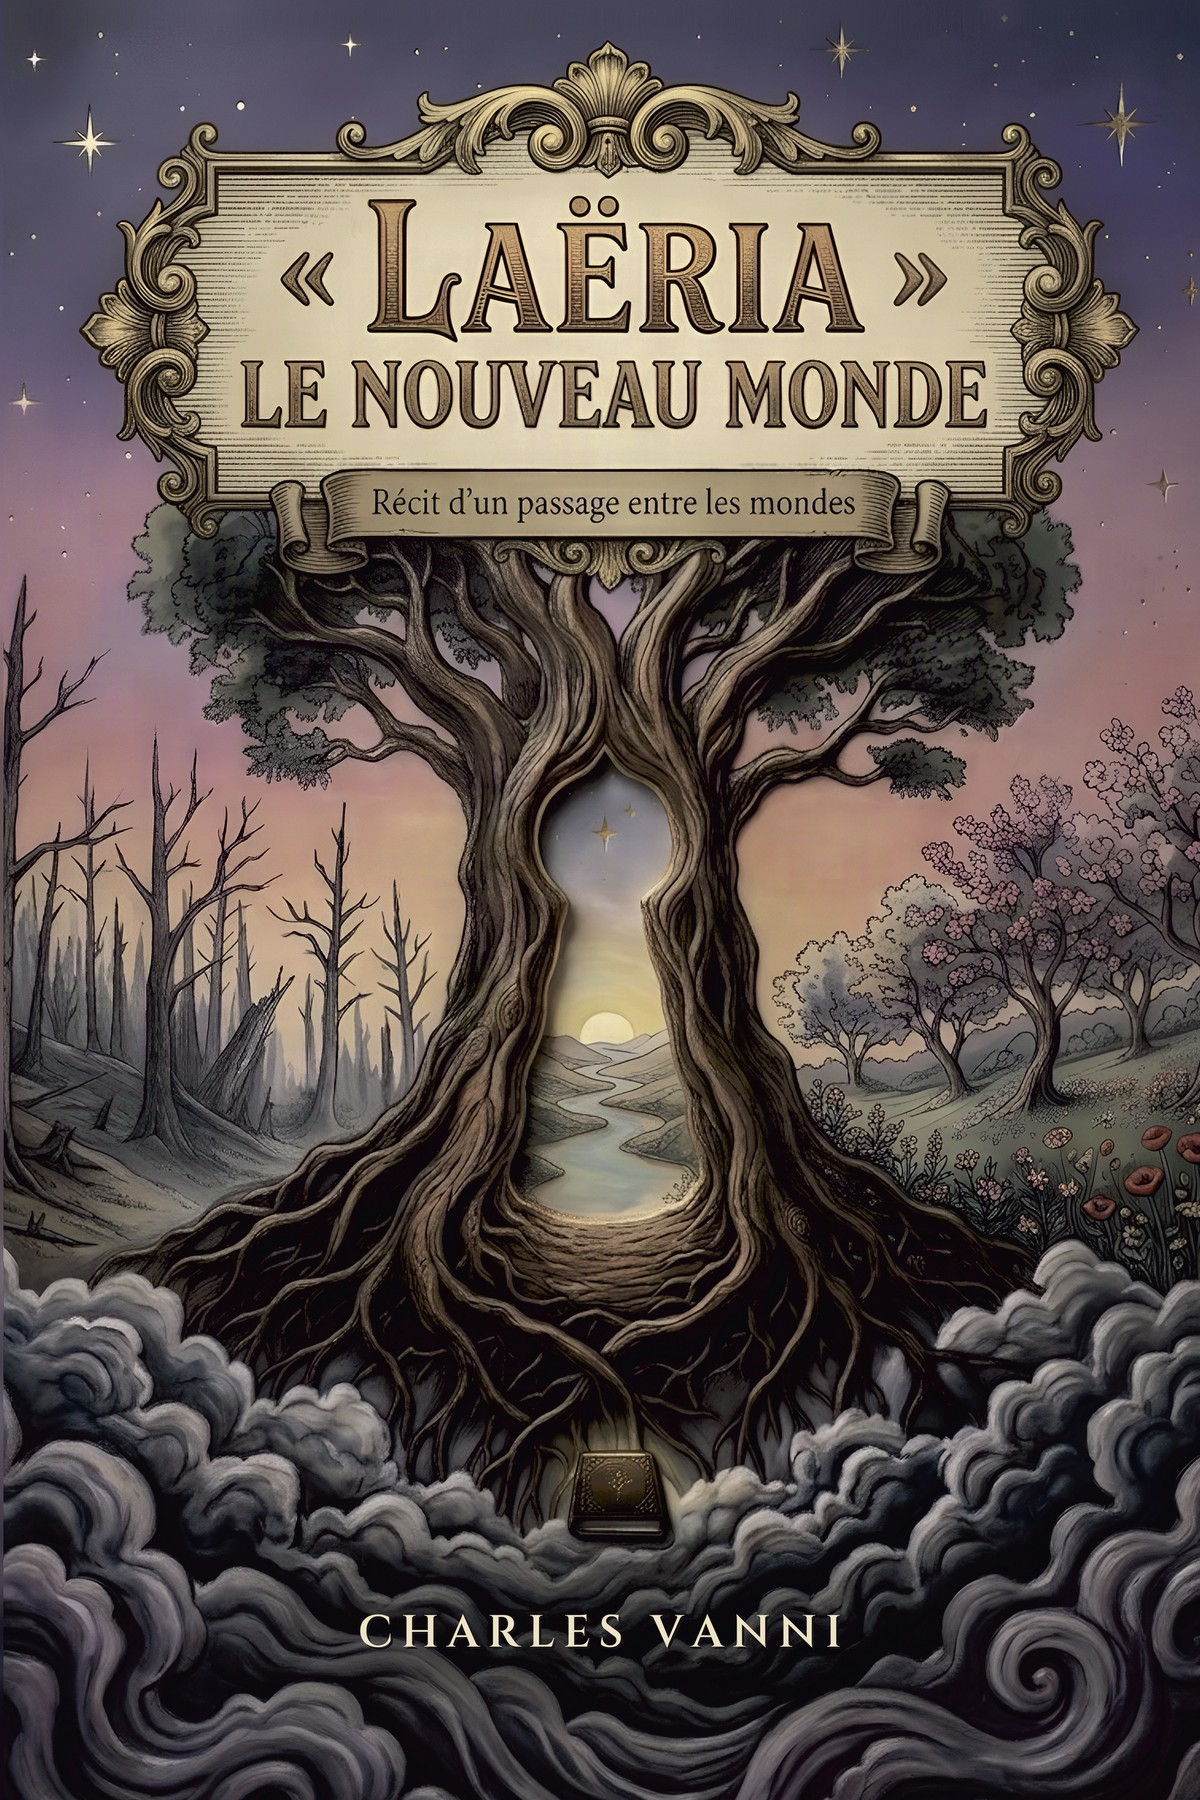
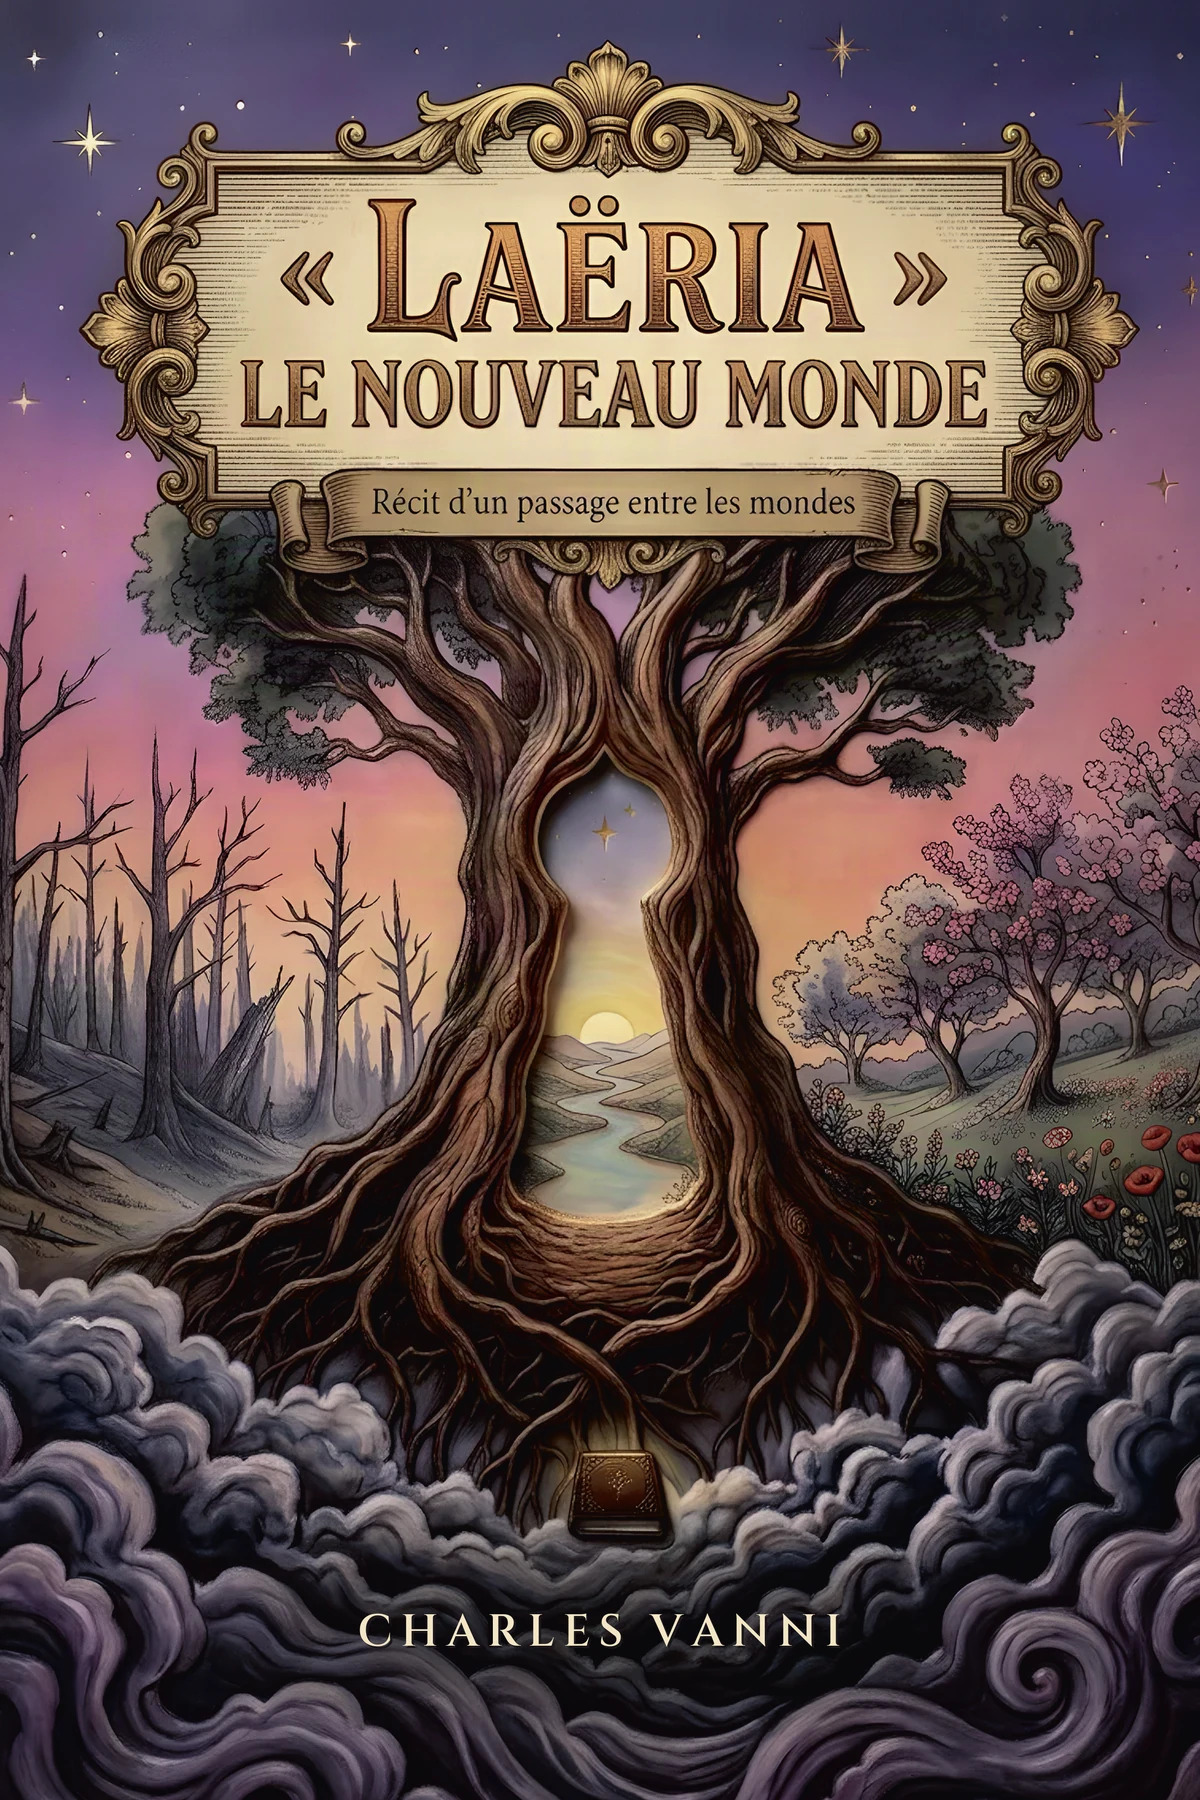
Contour doré sur les lettres lumineuses de Laëria ; grain de dessin sur l'ouverture ; pochette aux vraies couleurs ; titre et pied de page Laëria en police Laëria sur toutes les pages
Claude-Session: https://claude.ai/code/session_013GcFnatW4anFAXBN47GWwL

diff --git a/css/pages-ciel.css b/css/pages-ciel.css
@@ -30,12 +30,12 @@ body>*:not(.ciel):not(#etoiles){position:relative;z-index:1}
 .nav li a{color:var(--parch)!important;text-shadow:0 1px 6px rgba(16,7,30,.9)}
 .nav li a:hover,.nav li a[aria-current]{color:var(--gold)!important}
 .brand{font-family:"Laeria Titre Fin","Cinzel Decorative",Georgia,serif!important;font-weight:400!important;font-size:1.5rem!important;letter-spacing:.08em!important;color:var(--gold)!important;filter:drop-shadow(0 0 6px rgba(241,213,138,.45))}
-.brand .l{display:inline-block;color:#fff3c4;animation:itt 7s ease-in-out infinite;animation-delay:calc(var(--d)*.6 - 1.4s);will-change:opacity,text-shadow}
+.brand .l,.lt-mot .l{display:inline-block;color:#fff3c4;animation:itt 7s ease-in-out infinite;animation-delay:calc(var(--d)*.6 - 1.4s);will-change:opacity,text-shadow}
 @keyframes itt{
  0%,46%,100%{opacity:.82;color:#f3d890;text-shadow:0 0 4px rgba(253,226,140,.55),0 0 12px rgba(240,180,80,.4),0 0 26px rgba(240,170,70,.2)}
  13%,33%{opacity:.92;color:#fbebb6;text-shadow:0 0 5px rgba(255,240,190,.75),0 0 16px rgba(255,205,105,.6),0 0 34px rgba(240,170,70,.45)}
  23%{opacity:1;color:#fffbe6;text-shadow:0 0 7px rgba(255,247,214,.95),0 0 20px rgba(255,217,120,.8),0 0 42px rgba(240,170,70,.7)}}
-@media(prefers-reduced-motion:reduce){.brand .l{animation:none}}
+@media(prefers-reduced-motion:reduce){.brand .l,.lt-mot .l{animation:none}}
 
 /* textes lisibles sur le ciel */
 p,li,.eyebrow,.role,.epi,.tag,dd,dt,.lead,figcaption,summary,footer p{color:var(--parch)!important;text-shadow:0 1px 2px rgba(16,7,30,.85),0 0 14px rgba(16,7,30,.85),0 0 30px rgba(16,7,30,.55)}
@@ -65,3 +65,16 @@ footer,footer *{color:var(--parch)!important}
 .cta .grid::before{display:none}
 footer::before{background:radial-gradient(closest-side at 50% 60%,rgba(var(--vc),.82),rgba(var(--vc),.5) 60%,transparent 100%)!important}
 @media(max-width:700px){.hero .wrap::before,.prose::before,.cta::before{inset:-8% -4%}.page::before{inset:-4% -2%}.ciel,.ciel .orn{max-width:100vw}}
+
+/* « Laëria, Le Nouveau Monde » : mot Laëria en police Laëria (contour doré + lueur), sous-titre en Cinzel espacé, comme sur l'accueil */
+.lt-mot{display:block;font-family:"Laeria Titre","Cinzel Decorative",Georgia,serif!important;font-weight:400!important;letter-spacing:.12em;line-height:1;text-transform:none;font-size:clamp(2.6rem,7vw,3.8rem)}
+.lt-mot .l,.brand .l{-webkit-text-stroke:.04em #d9962c;paint-order:stroke fill}
+.brand .l{-webkit-text-stroke:.02em #d9962c}
+.lt-sub{display:block;font-family:"Cinzel",Georgia,serif!important;font-weight:500;font-size:clamp(.82rem,2.4vw,1.05rem);letter-spacing:.32em;text-transform:uppercase;font-style:normal!important}
+h1.titre-livre{background:none!important;animation:none;filter:none;display:grid;justify-items:center;gap:.9rem;letter-spacing:0;text-transform:none;-webkit-text-fill-color:initial}
+h1.titre-livre .lt-mot{font-size:clamp(3.6rem,11vw,7rem)}
+h1.titre-livre .lt-sub{font-size:clamp(.95rem,2.8vw,1.35rem);color:var(--parch)!important;text-shadow:0 1px 2px rgba(16,7,30,.85),0 0 14px rgba(16,7,30,.85)}
+footer .t{display:grid;justify-items:center;gap:.7rem;margin-bottom:.4rem}
+footer .t .lt-mot{font-size:clamp(2.6rem,7vw,3.8rem)}
+footer .t .lt-sub{margin-top:.5rem}
+.vh{position:absolute;width:1px;height:1px;overflow:hidden;clip:rect(0 0 0 0);white-space:nowrap}

diff --git a/le-livre/index.html b/le-livre/index.html
@@ -95,7 +95,7 @@ footer p{color:var(--parch-dim);font-style:italic;margin-top:.5rem;font-size:1re
 <body>
 <header class="nav"><div class="wrap"><a class="brand" href="/">Laëria</a><nav aria-label="Navigation"><ul><li><a href="/le-livre/" aria-current="page">Le livre</a></li><li><a href="/carte/">La carte</a></li><li><a href="/personnages/">Personnages</a></li><li><a href="/extrait/">Extrait</a></li><li><a href="/">Accueil</a></li></ul></nav></div></header>
 <main>
-<header class="hero"><div class="wrap"><p class="eyebrow">Fantasy initiatique, magique et onirique</p><h1>Laëria, Le Nouveau Monde</h1><div class="ornament" aria-hidden="true"><i></i></div><p class="lead">Le livre de Charles Vanni, illustré en couleur : voyages entre les dimensions et quêtes intérieures.</p></div></header>
+<header class="hero"><div class="wrap"><p class="eyebrow">Fantasy initiatique, magique et onirique</p><h1 class="titre-livre"><span class="lt-mot">Laëria</span><span class="vh">, </span><span class="lt-sub">Le Nouveau Monde</span></h1><div class="ornament" aria-hidden="true"><i></i></div><p class="lead">Le livre de Charles Vanni, illustré en couleur : voyages entre les dimensions et quêtes intérieures.</p></div></header>
 <section><div class="wrap split"><img src="/img/cover.webp" width="1200" height="1800" alt="La couverture du livre Laëria, Le Nouveau Monde, de Charles Vanni : un chêne immense dont le tronc s’ouvre comme une serrure sur une rivière au soleil couchant, au-dessus d’une mer de nuages violets."><div class="prose">
         <p class="back-hook">Et si le monde que l’on croit connaître n’était que l’écho d’un autre&nbsp;?</p>
         <p>Un matin, plus rien ne répond. Plus de réseau, plus de repères, seulement un silence si vaste qu’il donne le vertige. Dans ce monde qui vacille, un homme découvre que quelque chose d’ancien s’éveille sous la surface : Laëria, une force que l’on ne voit pas, mais que l’on ressent jusque dans le souffle.</p>

diff --git a/js/pages-ciel.js b/js/pages-ciel.js
@@ -5,9 +5,11 @@
   c.innerHTML='<img class="orn g" src="/img/fleurs-g.webp" alt="" style="top:1%"><img class="orn d" src="/img/fleurs-d.webp" alt="" style="top:34%"><img class="orn g" src="/img/fleurs-g.webp" alt="" style="top:68%">';
   b.insertBefore(c,b.firstChild);
   var cv=document.createElement('canvas');cv.id='etoiles';cv.setAttribute('aria-hidden','true');b.insertBefore(cv,c.nextSibling);
-  document.querySelectorAll('.brand').forEach(function(el){
+  document.querySelectorAll('footer .wrap').forEach(function(w){var p=w.querySelector('p');if(!p||w.querySelector('.t'))return;
+    if(!/Laëria/i.test(p.textContent))return;var t=document.createElement('div');t.className='t';t.innerHTML='<span class="lt-mot">Laëria</span><span class="lt-sub">Le Nouveau Monde</span>';w.replaceChild(t,p)});
+  document.querySelectorAll('.brand,.lt-mot').forEach(function(el){
     var tn=[].slice.call(el.childNodes).filter(function(n){return n.nodeType==3&&n.textContent.trim()})[0];if(!tn)return;
-    var t=tn.textContent.trim(),f=document.createDocumentFragment(),a=document.createElement('span');a.setAttribute('aria-label',t);
+    var t=tn.textContent.trim(),f=document.createDocumentFragment(),a=document.createElement('span');a.setAttribute('aria-label',t);a.style.display='inline-block';
     t.split('').forEach(function(ch,i){var s=document.createElement('span');s.className='l';s.setAttribute('aria-hidden','true');s.style.setProperty('--d',(i*.42).toFixed(2)+'s');s.textContent=ch;a.appendChild(s)});
     tn.parentNode.replaceChild(a,tn);
   });

diff --git a/index.html b/index.html
@@ -1735,6 +1735,11 @@ main{overflow-x:clip}
 .carnet{overflow:visible!important}
 .cn-glow{opacity:.5!important;background:radial-gradient(closest-side,rgba(255,222,140,.55),rgba(255,196,110,.22) 40%,rgba(255,196,110,.06) 68%,transparent 100%)!important}
 .cn-in::before{inset:-40% -34%!important;background:radial-gradient(closest-side,rgba(var(--vc),.5),rgba(var(--vc),.28) 45%,rgba(var(--vc),.1) 75%,transparent 100%)!important;-webkit-mask-image:none!important;mask-image:none!important}
+/* contour doré sur toutes les lettres lumineuses de « Laëria » */
+.itit .l,.hero-in h1.htit .l,.laeria-mot .l,.syl b .l,footer .t .lt-mot .l{-webkit-text-stroke:.04em #d9962c;paint-order:stroke fill}
+.brand .l{-webkit-text-stroke:.012em #dfa63c;paint-order:stroke fill}
+/* le fond d'ouverture garde l'aspect d'un dessin : léger grain de papier */
+.igrain{opacity:.27}
 </style>
 <script>/* Ciel : étoiles discrètes, rondes et douces (quelques scintillements effilés), qui s'effacent vers l'horizon doré */
 (function(){
